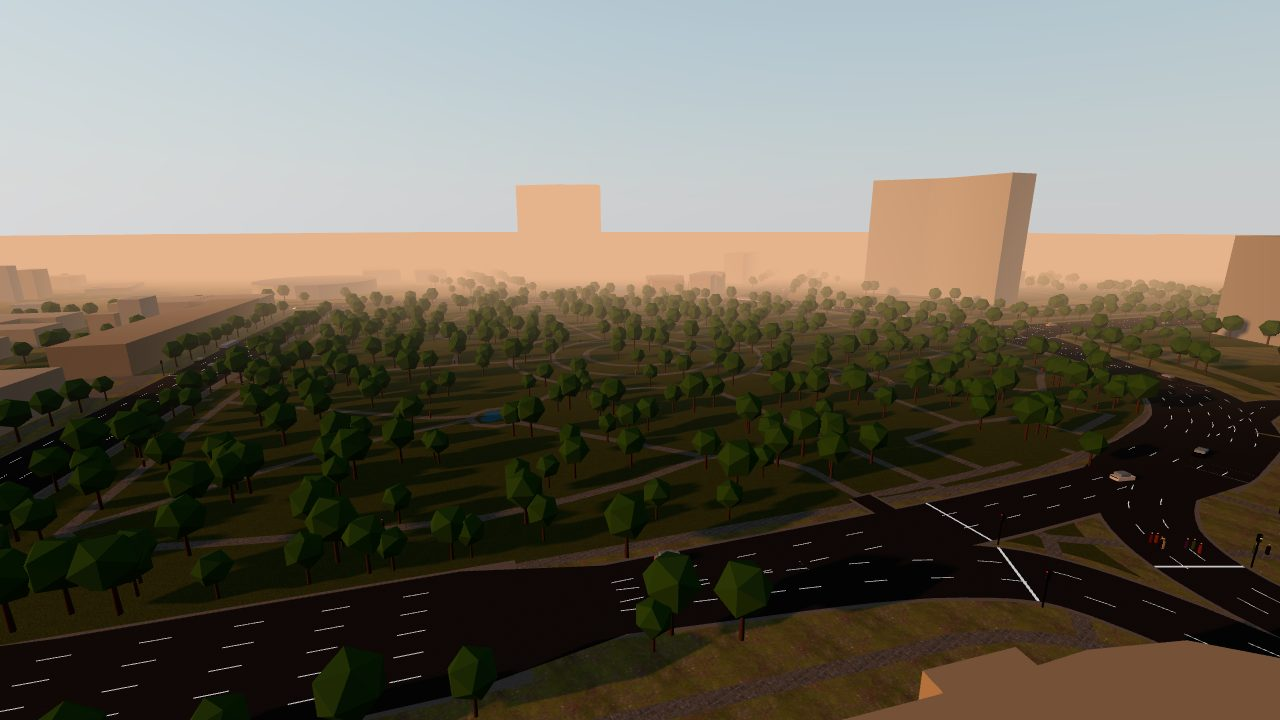
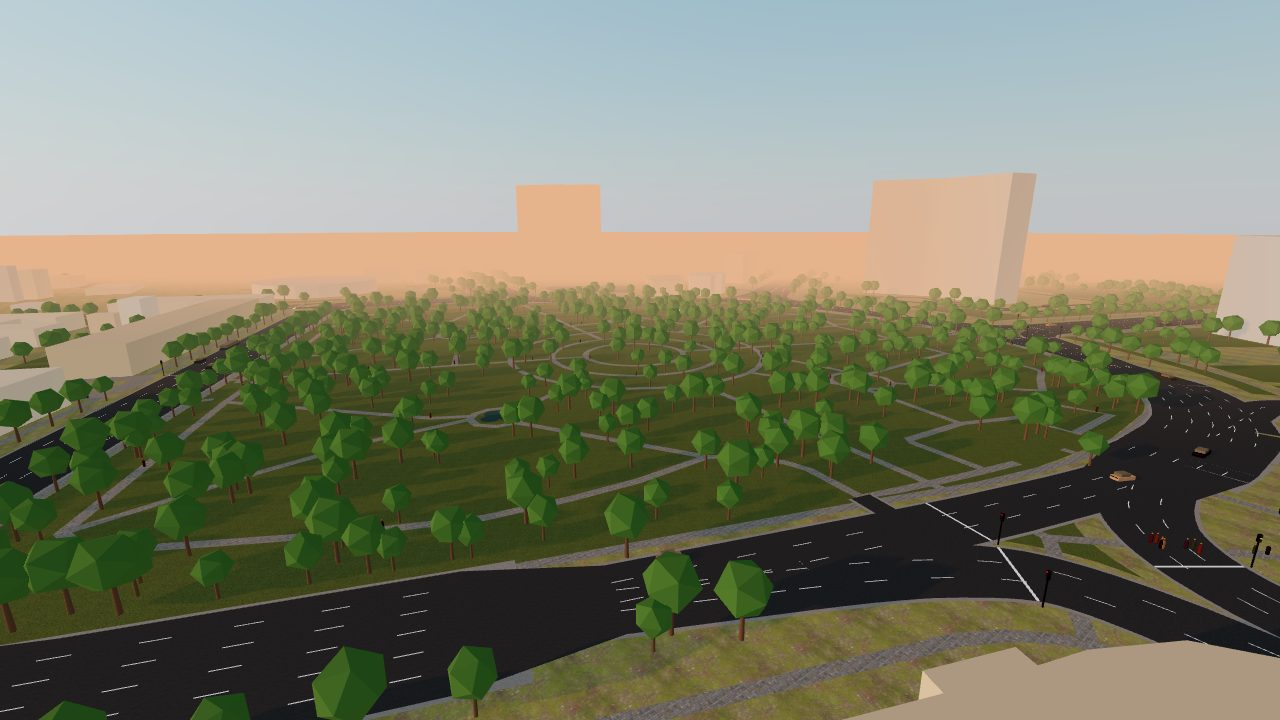
feat(render): sky ambient light and retuned times of day
Buildings and trees take image-based ambient light from a PMREM of
the current sky, rebuilt on time-of-day changes only. Visible sky gets
saturation and gain uniforms. Retuned presets bring noon asphalt and
facades within 20% of M3 and keep evening asphalt a textured grey.
Adds tools/visual/luminance.py and re-takes the after shots.

diff --git a/src/world/environment.ts b/src/world/environment.ts
@@ -16,6 +16,12 @@ const SKY_SIZE = 2500;
 const SHADOW_BIAS_M = 0.05;
 const CSM_LIGHT_FAR = 1000;
 const SHADOW_NORMAL_BIAS = 0.03;
+const ENV_SKY_SIZE = 50;
+
+export interface EnvMapSource {
+  fromScene(scene: THREE.Scene, sigma?: number, near?: number, far?: number): THREE.WebGLRenderTarget;
+  dispose(): void;
+}
 
 export interface Environment {
   follow(x: number, z: number): void;
@@ -40,6 +46,7 @@ export function createEnvironment(
   q: QualitySettings,
   tod: TimeOfDay,
   groundMaterial: THREE.Material,
+  envMaps: EnvMapSource | null = null,
 ): Environment {
   const fog = new THREE.Fog(0xffffff, 1, 2);
   const background = new THREE.Color();
@@ -53,9 +60,22 @@ export function createEnvironment(
   sky.scale.setScalar(SKY_SIZE);
   sky.frustumCulled = false;
   scene.add(sky);
-  const skyU = (sky.material as THREE.ShaderMaterial).uniforms;
-  skyU.mieCoefficient.value = 0.005;
+  const skyMaterial = sky.material as THREE.ShaderMaterial;
+  // three's Sky goes grey-white under a high sun and tracks exposure; these restore a clear blue at any exposure.
+  skyMaterial.fragmentShader = skyMaterial.fragmentShader
+    .replace('uniform float mieDirectionalG;', 'uniform float mieDirectionalG;\nuniform float saturation;\nuniform float gain;')
+    .replace('gl_FragColor = vec4( retColor, 1.0 );', 'retColor = max( mix( vec3( dot( retColor, vec3( 0.2126, 0.7152, 0.0722 ) ) ), retColor, saturation ), 0.0 ) * gain;\n\t\t\tgl_FragColor = vec4( retColor, 1.0 );');
+  const skyU = skyMaterial.uniforms;
+  skyU.saturation = { value: 1 };
+  skyU.gain = { value: 1 };
   skyU.mieDirectionalG.value = 0.8;
+
+  const envSky = new Sky();
+  envSky.material = sky.material;
+  envSky.scale.setScalar(ENV_SKY_SIZE);
+  const envScene = new THREE.Scene();
+  envScene.add(envSky);
+  let envTarget: THREE.WebGLRenderTarget | null = null;
 
   const ground = new THREE.Mesh(worldUVs(new THREE.PlaneGeometry(6000, 6000).rotateX(-Math.PI / 2), GROUND_TILE.ground), groundMaterial);
   ground.receiveShadow = true;
@@ -163,7 +183,20 @@ export function createEnvironment(
     renderer.toneMappingExposure = p.exposure;
     skyU.turbidity.value = p.turbidity;
     skyU.rayleigh.value = p.rayleigh;
+    skyU.mieCoefficient.value = p.mie;
     (skyU.sunPosition.value as THREE.Vector3).copy(toSun);
+    scene.environmentIntensity = p.envIntensity;
+    if (envMaps) {
+      // Ambient light comes from the unsaturated sky, so a bluer visible sky does not tint the city.
+      skyU.saturation.value = 1;
+      skyU.gain.value = 1;
+      const next = envMaps.fromScene(envScene, 0, 0.1, 2 * ENV_SKY_SIZE);
+      envTarget?.dispose();
+      envTarget = next;
+      scene.environment = next.texture;
+    }
+    skyU.saturation.value = p.skySaturation;
+    skyU.gain.value = p.skyGain;
     applyLight();
     placeSingle();
   }
@@ -216,6 +249,11 @@ export function createEnvironment(
       for (const m of materials) m.needsUpdate = true;
       materials.clear();
       scene.remove(hemi, sky, ground);
+      envTarget?.dispose();
+      envTarget = null;
+      envMaps?.dispose();
+      scene.environment = null;
+      envSky.geometry.dispose();
       sky.geometry.dispose();
       (sky.material as THREE.Material).dispose();
       ground.geometry.dispose();

diff --git a/src/world/environment.test.ts b/src/world/environment.test.ts
@@ -8,12 +8,26 @@ import { createEnvironment } from './environment';
 const LAT = 41.3111;
 const LON = 69.2797;
 
-function setup(q = QUALITY.high) {
+function fakeEnvMaps() {
+  const made: THREE.WebGLRenderTarget[] = [];
+  return {
+    made,
+    fromScene: vi.fn(() => {
+      const t = new THREE.WebGLRenderTarget(1, 1);
+      vi.spyOn(t, 'dispose');
+      made.push(t);
+      return t;
+    }),
+    dispose: vi.fn(),
+  };
+}
+
+function setup(q = QUALITY.high, envMaps = fakeEnvMaps()) {
   const scene = new THREE.Scene();
   const camera = new THREE.PerspectiveCamera(65, 16 / 9, 0.1, 3000);
   const renderer = { toneMappingExposure: 1 } as unknown as THREE.WebGLRenderer;
-  const env = createEnvironment(scene, camera, renderer, q, 'noon', new THREE.MeshLambertMaterial());
-  return { scene, camera, renderer, env };
+  const env = createEnvironment(scene, camera, renderer, q, 'noon', new THREE.MeshLambertMaterial(), envMaps);
+  return { scene, camera, renderer, env, envMaps };
 }
 
 const shadowLights = (scene: THREE.Scene) => {
@@ -101,5 +115,38 @@ describe('createEnvironment', () => {
       expect(Math.abs(l.shadow.bias) * l.shadow.camera.far).toBeLessThan(0.1);
       expect(l.shadow.camera.far).toBeLessThanOrEqual(1000);
     }
+  });
+
+  it('lights the scene from the sky and rebuilds that light only when the time of day changes', () => {
+    const { scene, env, envMaps } = setup();
+    expect(envMaps.fromScene).toHaveBeenCalledTimes(1);
+    expect(scene.environment).toBe(envMaps.made[0].texture);
+    expect(scene.environmentIntensity).toBe(TIMES_OF_DAY.noon.envIntensity);
+    env.update();
+    env.setQuality(QUALITY.low);
+    expect(envMaps.fromScene).toHaveBeenCalledTimes(1);
+    env.setTimeOfDay('evening');
+    expect(envMaps.fromScene).toHaveBeenCalledTimes(2);
+    expect(envMaps.made[0].dispose).toHaveBeenCalled();
+    expect(scene.environment).toBe(envMaps.made[1].texture);
+    expect(scene.environmentIntensity).toBe(TIMES_OF_DAY.evening.envIntensity);
+    env.dispose();
+    expect(envMaps.made[1].dispose).toHaveBeenCalled();
+    expect(envMaps.dispose).toHaveBeenCalled();
+    expect(scene.environment).toBeNull();
+  });
+
+  it('applies the preset sky saturation and gain in the sky shader', () => {
+    const { scene, env } = setup();
+    let sky: THREE.Mesh | undefined;
+    scene.traverse(o => {
+      if ((o as THREE.Mesh & { isSky?: boolean }).isSky) sky = o as THREE.Mesh;
+    });
+    const mat = sky!.material as THREE.ShaderMaterial;
+    expect(mat.fragmentShader).toContain('uniform float saturation;');
+    expect(mat.uniforms.saturation.value).toBe(TIMES_OF_DAY.noon.skySaturation);
+    env.setTimeOfDay('evening');
+    expect(mat.uniforms.saturation.value).toBe(TIMES_OF_DAY.evening.skySaturation);
+    expect(mat.uniforms.gain.value).toBe(TIMES_OF_DAY.evening.skyGain);
   });
 });

diff --git a/src/render/timeOfDay.ts b/src/render/timeOfDay.ts
@@ -13,6 +13,12 @@ export interface LightPreset {
   exposure: number;
   turbidity: number;
   rayleigh: number;
+  mie: number;
+  skySaturation: number;
+  /** Brightness of the visible sky only; ambient light uses the sky at gain 1. */
+  skyGain: number;
+  /** Scales the sky's image-based ambient light on lit materials. */
+  envIntensity: number;
 }
 
 // 2026-05-15 in Tashkent (UTC+5): 08:30, 13:00 and 18:00 local.
@@ -23,40 +29,52 @@ export const TIMES_OF_DAY: Record<TimeOfDay, LightPreset> = {
     sunIntensity: 2.4,
     skyColor: 0xa9c8ea,
     groundColor: 0x8a7f70,
-    hemiIntensity: 0.85,
+    hemiIntensity: 0.5,
     fogColor: 0xcfdbe8,
     fogNear: 120,
     fogFar: 650,
     exposure: 0.55,
-    turbidity: 5,
-    rayleigh: 1.6,
+    turbidity: 2,
+    rayleigh: 2.5,
+    mie: 0.002,
+    skySaturation: 1.6,
+    skyGain: 0.6,
+    envIntensity: 0.35,
   },
   noon: {
     utc: '2026-05-15T08:00:00Z',
     sunColor: 0xfff4e0,
-    sunIntensity: 3.2,
+    sunIntensity: 2.8,
     skyColor: 0x9cc4f0,
     groundColor: 0x9a9082,
-    hemiIntensity: 1.0,
-    fogColor: 0xc8d9ec,
-    fogNear: 150,
-    fogFar: 800,
+    hemiIntensity: 0.5,
+    fogColor: 0xb6d1e6,
+    fogNear: 300,
+    fogFar: 1400,
     exposure: 0.5,
-    turbidity: 4,
-    rayleigh: 1.2,
+    turbidity: 1.5,
+    rayleigh: 2.5,
+    mie: 0.002,
+    skySaturation: 2.4,
+    skyGain: 0.5,
+    envIntensity: 0.35,
   },
   evening: {
     utc: '2026-05-15T13:00:00Z',
     sunColor: 0xffa860,
-    sunIntensity: 2.6,
-    skyColor: 0xb8bcc8,
-    groundColor: 0x7a6656,
-    hemiIntensity: 1.1,
+    sunIntensity: 2.2,
+    skyColor: 0xd8b89a,
+    groundColor: 0x8a6a50,
+    hemiIntensity: 1.5,
     fogColor: 0xe6b48c,
     fogNear: 90,
     fogFar: 500,
     exposure: 0.6,
     turbidity: 8,
     rayleigh: 2.4,
+    mie: 0.005,
+    skySaturation: 1.3,
+    skyGain: 0.85,
+    envIntensity: 0.5,
   },
 };

diff --git a/src/world/buildWorld.ts b/src/world/buildWorld.ts
@@ -77,8 +77,8 @@ function addTrees(scene: THREE.Scene, d: DistrictData) {
   const trees = treePositions(d, TREE_SEED);
   const trunkGeo = new THREE.CylinderGeometry(0.18, 0.25, 3, 6).translate(0, 1.5, 0);
   const crownGeo = new THREE.IcosahedronGeometry(2.6, 0).translate(0, 5, 0);
-  const trunks = new THREE.InstancedMesh(trunkGeo, lambert(0x6b5138), trees.length);
-  const crowns = new THREE.InstancedMesh(crownGeo, new THREE.MeshLambertMaterial({ color: 0x4f7d34, flatShading: true }), trees.length);
+  const trunks = new THREE.InstancedMesh(trunkGeo, new THREE.MeshStandardMaterial({ color: 0x6b5138, roughness: 1 }), trees.length);
+  const crowns = new THREE.InstancedMesh(crownGeo, new THREE.MeshStandardMaterial({ color: 0x4f7d34, roughness: 1, flatShading: true }), trees.length);
   const m = new THREE.Matrix4(), q = new THREE.Quaternion(), s = new THREE.Vector3(), p = new THREE.Vector3(), up = new THREE.Vector3(0, 1, 0);
   trees.forEach(([x, z], i) => {
     // Scale and rotation derived from position so they're stable between loads.

diff --git a/src/world/buildings.test.ts b/src/world/buildings.test.ts
@@ -1,0 +1,11 @@
+import * as THREE from 'three';
+import { expect, it } from 'vitest';
+import { addBuildings } from './buildings';
+
+it('building materials take ambient light from scene.environment', () => {
+  const scene = new THREE.Scene();
+  addBuildings(scene, [{ id: 'b1', footprint: [[0, 0], [10, 0], [10, 10], [0, 10]], height: 12 } as never]);
+  const meshes = scene.children.filter((o): o is THREE.Mesh => (o as THREE.Mesh).isMesh);
+  expect(meshes.length).toBeGreaterThan(0);
+  for (const m of meshes) expect((m.material as THREE.MeshStandardMaterial).isMeshStandardMaterial).toBe(true);
+});

diff --git a/src/main.ts b/src/main.ts
@@ -76,7 +76,7 @@ const frameStats = new FrameStats();
 const scene = new THREE.Scene();
 const camera = new THREE.PerspectiveCamera(65, innerWidth / innerHeight, 0.1, 3000);
 const groundMats = createGroundMaterials(quality);
-const env = createEnvironment(scene, camera, renderer, quality, choice.timeOfDay, groundMats.ground);
+const env = createEnvironment(scene, camera, renderer, quality, choice.timeOfDay, groundMats.ground, new THREE.PMREMGenerator(renderer));
 const { signalLamps } = buildWorld(scene, district, groundMats);
 
 const credit = document.createElement('div');

diff --git a/src/world/buildings.ts b/src/world/buildings.ts
@@ -21,7 +21,7 @@ export function addBuildings(scene: THREE.Scene, buildings: Building[]): void {
     byColour[hash(b.id) % PALETTE.length].push(g);
   }
   byColour.forEach((geoms, i) => {
-    const mesh = addMerged(scene, geoms, new THREE.MeshLambertMaterial({ color: PALETTE[i] }));
+    const mesh = addMerged(scene, geoms, new THREE.MeshStandardMaterial({ color: PALETTE[i], roughness: 1, metalness: 0 }));
     if (mesh) mesh.castShadow = true;
   });
 }

diff --git a/tools/visual/luminance.py b/tools/visual/luminance.py
@@ -1,0 +1,26 @@
+"""Mean luma (Rec. 709 weights on 0-255 sRGB values) of screenshot regions.
+
+usage: python3 tools/visual/luminance.py IMAGE name=x0,y0,x1,y1 [name=...]
+Needs Pillow.
+"""
+import sys
+
+from PIL import Image, ImageStat
+
+WEIGHTS = (0.2126, 0.7152, 0.0722)
+
+
+def mean_luma(img, box):
+    means = ImageStat.Stat(img.convert('RGB').crop(box)).mean
+    return sum(w * c for w, c in zip(WEIGHTS, means))
+
+
+def main(argv):
+    img = Image.open(argv[1])
+    for arg in argv[2:]:
+        name, box = arg.split('=')
+        print(f'{name}\t{mean_luma(img, tuple(int(v) for v in box.split(","))):.1f}')
+
+
+if __name__ == '__main__':
+    main(sys.argv)

diff --git a/docs/perf/README.md b/docs/perf/README.md
@@ -152,3 +152,22 @@ Mirror cadence does not move p95, and a near-empty frame still has a p95 of 3.4 
 | Total `dist/` | 7,917,636 |
 
 The M4a texture share is 3.11 MB against the 4 MB cap; all five texture sets are in `CREDITS.md`.
+
+### Fix round 1: sky ambient light (2026-10-24)
+
+Buildings and trees moved from Lambert to `MeshStandardMaterial` (roughness 1) so they take image-based ambient light from `scene.environment`, a PMREM of the current sky built on each `setTimeOfDay` (old target disposed). Times of day retuned; the visible sky got a saturation and gain uniform so it stays blue at any exposure.
+
+PMREM rebuild: 2.0 to 3.0 ms CPU per time-of-day change including `gl.finish` (5 calls), once per Start press, never per frame.
+
+Same method as above, low and high, noon and evening, drive shortened to 15 s:
+
+| Preset | View | render cpu p95 | gpu p50 / p95 | calls | triangles |
+|---|---|---|---|---|---|
+| high | chase, spawn | 1.3 | 5.4 / 5.7 (evening 6.3) | 84 | 703k |
+| high | cockpit, spawn | 1.4 | 5.3 / 5.5 (evening 6.3) | 62 | 703k |
+| high | route-1 drive | 1.7 to 1.8 | 4.2 to 4.3 / 5.1 to 5.2 | 84 | 703k |
+| low | chase, spawn | 1.6 | 2.5 to 2.6 / 4.9 to 5.5 | 62 | 493k |
+| low | cockpit, spawn | 1.5 | 2.3 to 2.4 / 4.6 to 5.6 | 46 | 492k |
+| low | route-1 drive | 1.6 to 1.7 | 2.2 to 2.3 / 4.9 to 5.0 | 62 | 493k |
+
+High gpu p50 rose about 1 ms (Standard shading and the environment lookup on every building and tree) and stays within 8 ms at p95. Calls and triangles are unchanged. Low rose about 0.3 ms at p50.

diff --git a/docs/visuals/m4a/README.md b/docs/visuals/m4a/README.md
@@ -15,3 +15,17 @@ Maps, to compare with real panoramas:
 - Istiqbol ko'chasi: [Yandex](https://yandex.uz/maps/?ll=69.28143%2C41.30943&z=18&panorama%5Bpoint%5D=69.28143%2C41.30943&panorama%5Bdirection%5D=143%2C0) / [Google](https://www.google.com/maps/@?api=1&map_action=pano&viewpoint=41.30943,69.28143&heading=143)
 
 If a link lands with no panorama, the nearest street-level image is a few metres off; drag the pegman onto the same street.
+
+## Brightness check (fix round 1)
+
+`python3 tools/visual/luminance.py IMAGE asphalt=250,610,550,710 building=870,250,960,310` prints the mean luma (Rec. 709 weights on 0-255 sRGB) of each region. The asphalt region is the near carriageway, the building region is the shaded west-facing facade on the right of the avenue shot.
+
+| Avenue shot | Near asphalt | Building face |
+|---|---|---|
+| before | 41.9 | 165.2 |
+| after, noon | 48.7 (+16%) | 150.7 (-9%) |
+| after, evening | 24.8 (51% of noon) | 139.2 |
+| after, noon, first M4a take (no sky ambient) | 36.1 | 45.1 |
+| after, evening, first M4a take | 3.1 | 46.7 |
+
+Targets: noon asphalt and building within 20% of before (33.5 to 50.3, 132 to 198), evening asphalt at least 40% of noon (19.5). All pass.
